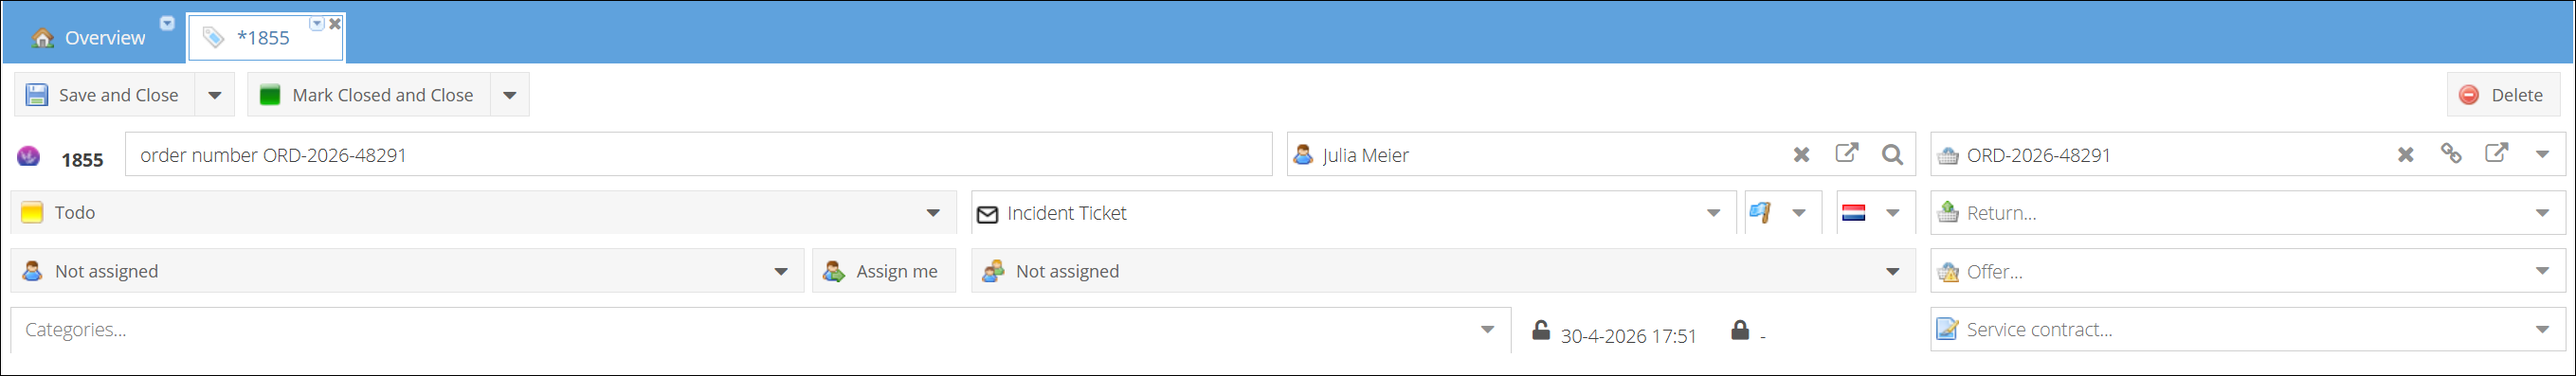
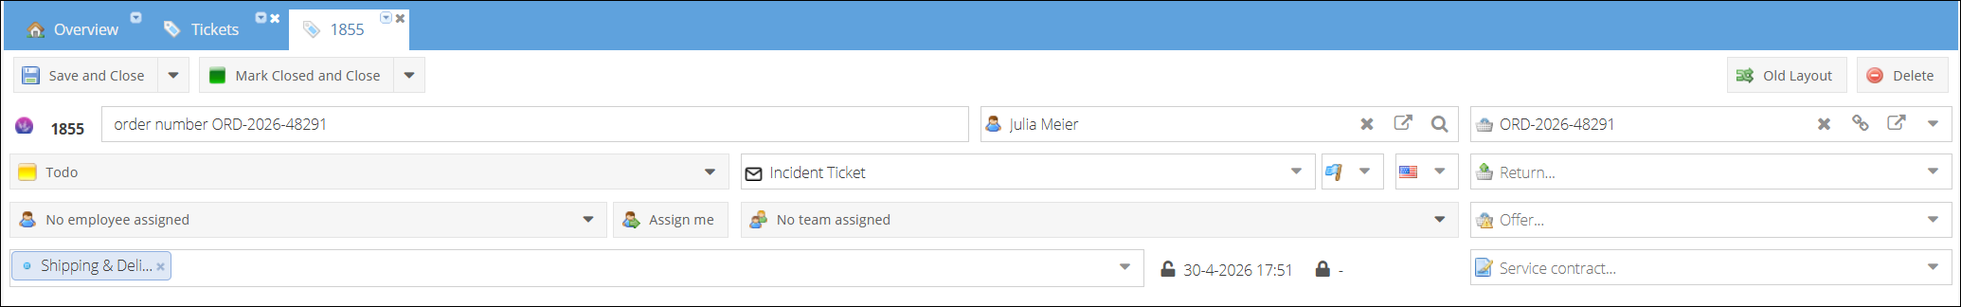
Ticket Details reworked window

diff --git a/docs/User-Guide/06-Communication/Tickets/ticket-details.md b/docs/User-Guide/06-Communication/Tickets/ticket-details.md
@@ -7,7 +7,7 @@ slug: /docs/ticket-details
 
 The ticket detail window displays all information about a ticket and allows you to manage communication, assign employees, track products, and more. To open it, double-click a ticket or click the edit button in the main ticket screen.
 
-<img src={require("/img/ticket-detail-window-new.png").default} height="" width="800" />
+![ticket-detail-window-new](/img/ticket-detail-window-new.png)
 
 ## Action Buttons
 
@@ -16,10 +16,20 @@ The top section contains the main action buttons:
 - **Save and Close** — Save the ticket and close the detail window. Use the dropdown arrow to access **Save** (without closing).
 - **Mark Closed and Close** — Set the ticket status to *Closed* and close the window.
 - **Delete** — Remove the ticket.
+- **Old Layout** — Switch to the previous ticket detail layout. This saves your preference per employee — all tickets will open in the old layout until you switch back. The old layout has a **New Layout** button to return to the current view.
+
+
+<details>
+<summary><b>Old style ticket details layout</b></summary>
+
+![ticket-detail-window-old](/img/ticket-detail-window-old.png)
+
+</details>
+
 
 ## Ticket Header
 
-<img src={require("/img/ticket-detail-header.png").default} height="" width="800" />
+![ticket-detail-header](/img/ticket-detail-header.png)
 
 The header area displays key ticket information in a compact layout:
 
@@ -37,12 +47,12 @@ The header area displays key ticket information in a compact layout:
 
 ### Assignment
 
-- **Employee assignment** — Click the employee dropdown (shows *Not assigned* or the assigned employee name) to assign the ticket to a specific employee. The **Assign me** button provides a shortcut to assign the ticket to yourself. This button is hidden when you are already the assignee.
-- **Group assignment** — Select a support team or group from the group dropdown.
+- **Employee assignment** — Click the employee dropdown (shows *No employee assigned* or the assigned employee name) to assign the ticket to a specific employee. The **Assign me** button provides a shortcut to assign the ticket to yourself. This button is hidden when you are already the assignee.
+- **Group assignment** — Select a support team or group from the group dropdown (shows *No team assigned* or the assigned team name).
 
 ### Categories
 
-<img src={require("/img/ticket-detail-categories.png").default} height="" width="800" />
+![ticket-detail-categories](/img/ticket-detail-categories.png)
 
 The category dropdown allows you to assign one or more categories to the ticket. When the AI Assistant is enabled, it automatically suggests categories based on the ticket content — these suggestions appear directly in the category dropdown. You can apply the suggested categories or choose your own from the full category list.
 
@@ -66,14 +76,31 @@ The AI Assistant panel sits directly below the ticket header. It automatically a
 Use the **refresh button** in the panel header to regenerate the AI analysis. The panel is collapsible — click the collapse/expand arrows to toggle its visibility.
 
 :::tip
-The AI Assistant requires configuration. See [Ticket AI Assistant](/docs/ticket-ai-assistant) for setup instructions including API key configuration and category training.
+The AI Assistant requires configuration. See [Ticket AI Assistant](/docs/User-Guide/06-Communication/Tickets/ticket-ai-assistant.md) for setup instructions including API key configuration and category training.
 :::
 
 ## Tabs
 
-<img src={require("/img/ticket-detail-tabs.png").default} height="" width="800" />
+
 
 All ticket-related information is organized into tabs below the AI Assistant panel. Each tab title shows a count badge indicating the number of items (e.g. *Messages (2)*, *Comments (1)*, *Parameters (1)*). Tabs load their content on first click for faster page performance.
+
+### Reordering tabs
+
+You can drag and drop tabs to rearrange them in any order you prefer. The tab order is saved per employee, so each team member can organize their workspace independently.
+
+### Pinning a tab
+
+You can pin one tab to keep it always visible while working in other tabs. To pin a tab, hover over the active tab and click the pin icon that appears on the right side of the tab header. This splits the view into two columns: the pinned tab on the left and the remaining tabs on the right.
+
+- Only the active tab shows the pin icon.
+- Only one tab can be pinned at a time. Pinning a different tab replaces the current pin.
+- Drag the splitter between the columns to adjust the width.
+- The pinned tab and column width are saved per employee and restored automatically on next visit.
+- To unpin, click the pin icon in the pinned panel header.
+
+![ticket-details-pin-tab](/img/ticket-details-pin-tab.png)
+
 
 ### Messages
 
@@ -81,7 +108,7 @@ The Messages tab is the default view and shows all communication related to the 
 
 **Message timeline:**
 
-<img src={require("/img/ticket-detail-message-timeline.png").default} height="" width="800" />
+![ticket-detail-message-timeline](/img/ticket-detail-message-timeline.png)
 
 Messages are grouped by date and displayed in a timeline format. Each message shows:
 - Sender name and email address
@@ -104,7 +131,7 @@ Use the toolbar buttons to start a new message:
 
 The compose window supports minimize, restore, and close. When minimized, it collapses to the bottom-left corner of the screen so you can continue reviewing the ticket while drafting a reply. Closing the compose window with unsaved changes will prompt you to confirm.
 
-<img src={require("/img/ticket-detail-compose-ai.png").default} height="" width="800" />
+![ticket-detail-compose-ai](/img/ticket-detail-compose-ai.png)
 
 The AI Assistant is also available inside the compose window. Use it to get help drafting your reply — for example, to generate a response based on the ticket context or to adjust the tone of your message.
 
@@ -124,7 +151,7 @@ View, upload, and manage file attachments related to the ticket.
 
 ### Products
 
-<img src={require("/img/ticket-detail-products.png").default} height="" width="800" />
+![ticket-detail-products](/img/ticket-detail-products.png)
 
 The Products tab shows which products are associated with the ticket. The tab badge displays the count as *selected/total* (e.g. *Products (0/3)*).
 
